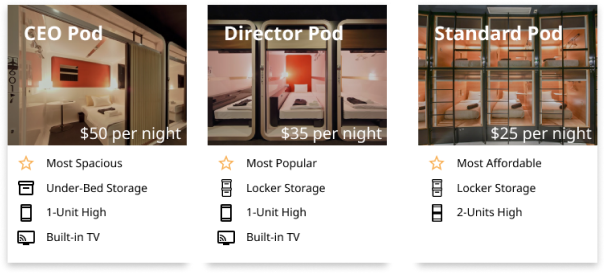
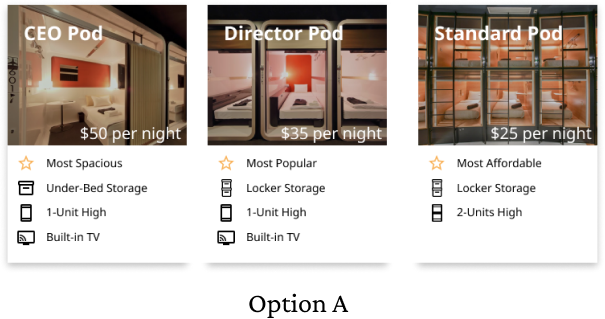
Pro Pods Completed

diff --git a/projects/pro-pods/pro-pods.html b/projects/pro-pods/pro-pods.html
@@ -41,22 +41,23 @@
             background-color: #f5f5f5;
         }
 
+        .pictures{
+            width:75%;
+            margin-left:auto;
+            margin-right:auto;
+        }
+
         @media(max-width: 1250px) {
             h1{font-size:50px;}
             .header{background-size:cover;}
-            #content{width:740px;}
-            .thumbnails{width: 750px; margin-left:auto; margin-right:auto;}
-            .thumbnail{width: 350px;}
         }
         
         /* Mobile – Screen Sizes ≤ 767px */
         @media(max-width: 767px){
             h1{line-height: 50px; font-size: 40px;}
             h2{font-size:25px;}
-            .thumbnails{width: 400px;}
         }
 
-        
 	</style>
 </head>
 <body>
@@ -93,7 +94,6 @@
 </div>
 
     <div class = "container">
-
         <div class="row" id="intro">
             <div class="col-sm-8">
                 <h4>Introduction</h4>
@@ -137,8 +137,7 @@
             <p>Using the aesthetics and colors from the mood board as the basis for my design,
                 I developed an application design which is both fun and professional.
                 This including a mix of warm and cold tones to accent the modern features of my design. </p>
-            <!-- TODO: make the image fit correctly ... align it to the center-->
-            <a href="pro-pods-moodboard.png" data-lightbox="moodboard" data-alt="Pro Pods Moodboard" class="webpage"><img src="pro-pods-moodboard.png" alt="Pro Pods Moodboard" > </a>
+            <img class="pictures" src="pro-pods-moodboard.png" alt="Pro Pods Moodboard">
         </div>
 
 
@@ -147,20 +146,12 @@
             <p>During this time, I also started working on some prototypes of small components within my application, for such as horizontal scrolling of the different type of room accommodations.
                 During this process, I had to decide which order to place the accommodations; from most to least expensive (Option A) or the least to most expensive (Option B).</p>
 
-            <div class="row row-cols-1 row-cols-sm-2">
-                <div class="col d-flex justify-content-center">
-                    <a href="Pods-A.png" data-lightbox="options" data-alt="Pro Pods Option A" ><img src="Pods-A.png" alt="Pro Pods Option A"> </a>
+            <div class="row row-cols-1 row-cols-lg-2">
+                <div class="col d-flex justify-content-center gy-3">
+                    <img class="pictures" src="Pods-A.png" alt="Pro Pods Option A">
                 </div>
-                <div class="col d-flex justify-content-center">
-                    <a href="Pods-B.png" data-lightbox="options" data-alt="Pro Pods Option B"><img src="Pods-B.png" alt="Pro Pods Option B"> </a>
-                </div>
-            </div>
-            <div class="row row-cols-1 row-cols-sm-2">
-                <div class="col d-flex justify-content-center">
-                    <p>Option A</p>
-                </div>
-                <div class="col d-flex justify-content-center">
-                    <p>Option B</p>
+                <div class="col d-flex justify-content-center gy-3">
+                    <img class="pictures" src="Pods-B.png" alt="Pro Pods Option B">
                 </div>
             </div>
             <p>After showing the two options to a set of possible users, I found that Option B would be the better
@@ -168,50 +159,41 @@
         </div>
 
 
-        <div class="row" id="prototyping">
-            <h4>Prototyping</h4>
+        <div class="row row-cols-1 row-cols-lg-2" id="prototyping">
             <div class="col">
-            <p>To ensure the interactivity of my design, I made sure to make a number of connections between frames to
+                <h4>Prototyping</h4>
+                <p>To ensure the interactivity of my design, I made sure to make a number of connections between frames to
                 allow users to understand the full experience of this application. The sidebar menu was the main driver
                 of the interactivity and connectivity of the frames within my design. </p>
             </div>
             <div class="col">
-                <div class="col d-flex justify-content-center">
-                    <a href="prototyping.png" data-lightbox="prototype" data-alt="Pro Pods prototyping flows screen capture" class="webpage"><img src="prototyping.png" alt="Pro Pods prototyping flows screen capture"> </a>
-                </div>
+                <img class="pictures" src="prototyping.png" alt="Pro Pods prototyping flows screen capture">
             </div>
 
         </div>
 
 
-        <div class="row" id="designs">
+        <div class="row" >
             <h4>High-Fidelity Designs</h4>
             <p>My final designs for this application results in five different interactive frames, with my home page
                 including the number of features, such as horizontal and vertical scrolling and a number of overlays upon the various amenities offered at Pro Pods. </p>
-            <div class="row row-cols-1 row-cols-sm-3">
-                <div class="col d-flex justify-content-center">
-                    <a href="Frame-1.png" data-lightbox="frame" data-alt="Screen capture of Pro Pods home screen" class="webpage"><img src="Frame-1.png" alt="Screen capture of Pro Pods home screen" > </a>
+            <div class="row row-cols-1 row-cols-lg-3" id="designs">
+                <div class="col d-flex justify-content-center gy-3">
+                    <img src="Frame-1.png" alt="Screen capture of Pro Pods home screen" >
                 </div>
-                <div class="col d-flex justify-content-center">
-                    <a href="Frame-2.png" data-lightbox="frame" data-alt="Screen capture of Pro Pods Calendar" class="webpage"><img src="Frame-2.png" alt="Screen capture of Pro Pods Calendar" > </a>
+                <div class="col d-flex justify-content-center gy-3">
+                    <img src="Frame-2.png" alt="Screen capture of Pro Pods Calendar" >
                 </div>
-                <div class="col d-flex justify-content-center">
-                    <a href="Frame-3.png" data-lightbox="frame" data-alt="Screen capture of Pro Pods Location" class="webpage"><img src="Frame-3.png" alt="Screen capture of Pro Pods Location"> </a>
+                <div class="col d-flex justify-content-center gy-3">
+                    <img src="Frame-3.png" alt="Screen capture of Pro Pods Location">
                 </div>
-            </div>
+                <div class="col d-flex justify-content-center gy-3">
+                    <img src="Frame-4.png" alt="Screen capture of Pro Pods Log In Screen">
+                </div>
+                <div class="col d-flex justify-content-center gy-3">
+                    <img src="Frame-5.png" alt="Screen capture of Pro Pods Sign Up Screen">
+                </div>
 
-            <div class="padding"></div>
-
-            <div class="row row-cols-1 row-cols-sm-3">
-                <div class="col d-flex justify-content-center">
-                    <a href="Frame-4.png" data-lightbox="frame" data-alt="Screen capture of Pro Pods Log In Screen" class="webpage"><img src="Frame-4.png" alt="Screen capture of Pro Pods Log In Screen"> </a>
-                </div>
-                <div class="col d-flex justify-content-center">
-                    <a href="Frame-5.png" data-lightbox="frame" data-alt="Screen capture of Pro Pods Sign Up Screen" class="webpage"><img src="Frame-5.png" alt="Screen capture of Pro Pods Sign Up Screen"> </a>
-                </div>
-                <div class="col d-flex justify-content-center">
-                    <a href="completed-frames.png" data-lightbox="frame" data-alt="Screen capture of all frames" class="webpage"><img src="completed-frames.png" alt="Screen capture of all frames"> </a>
-                </div>
             </div>
         </div>
 
@@ -223,6 +205,9 @@
                 and prototype an application while also improving my understanding of design theory and user-interviewing.
                 Next time, I want to spend more time in the user research section of my design and be able to get even
                 more feedback from potential users. </p>
+            <div class="d-grid gap-2 mx-auto view-more">
+                <a type="button" class="btn btn-primary" href="https://www.figma.com/proto/5r95yafbOZ0JIjAaDCQanZ/A12%3A-Accommodations-App?scaling=scale-down&page-id=0%3A1&starting-point-node-id=22%3A18&node-id=22%3A18" target="_blank">View the Interactive Prototype</a>
+            </div>
         </div>
 
 
@@ -235,7 +220,7 @@
             <li class="social-icon"><a href="mailto:dhkhoo@usc.edu" target="_blank"><i class="fas fa-envelope grey"></i></a></li>
             <li class="social-icon"><a href="https://www.instagram.com/desireekhoo/" target="_blank"><i class="fab fa-instagram grey"></i></a></li>
             <li class="social-icon"><a href="https://www.linkedin.com/in/desireekhoo/" target="_blank"><i class="fab fa-linkedin-in grey"></i></a></li>
-            <li class="social-icon"><a href="https://github.com/dhkhoo" target="_blank"><i class="fab fa-github grey"></i></a></li>
+            <li class="social-icon"><a href="https://github.com/dhkhoo" target="_blank"><i class="fab fa-github grey" ></i></a></li>
         </ul>
         <p>© 2022 Desiree Khoo</p>
     </div>
